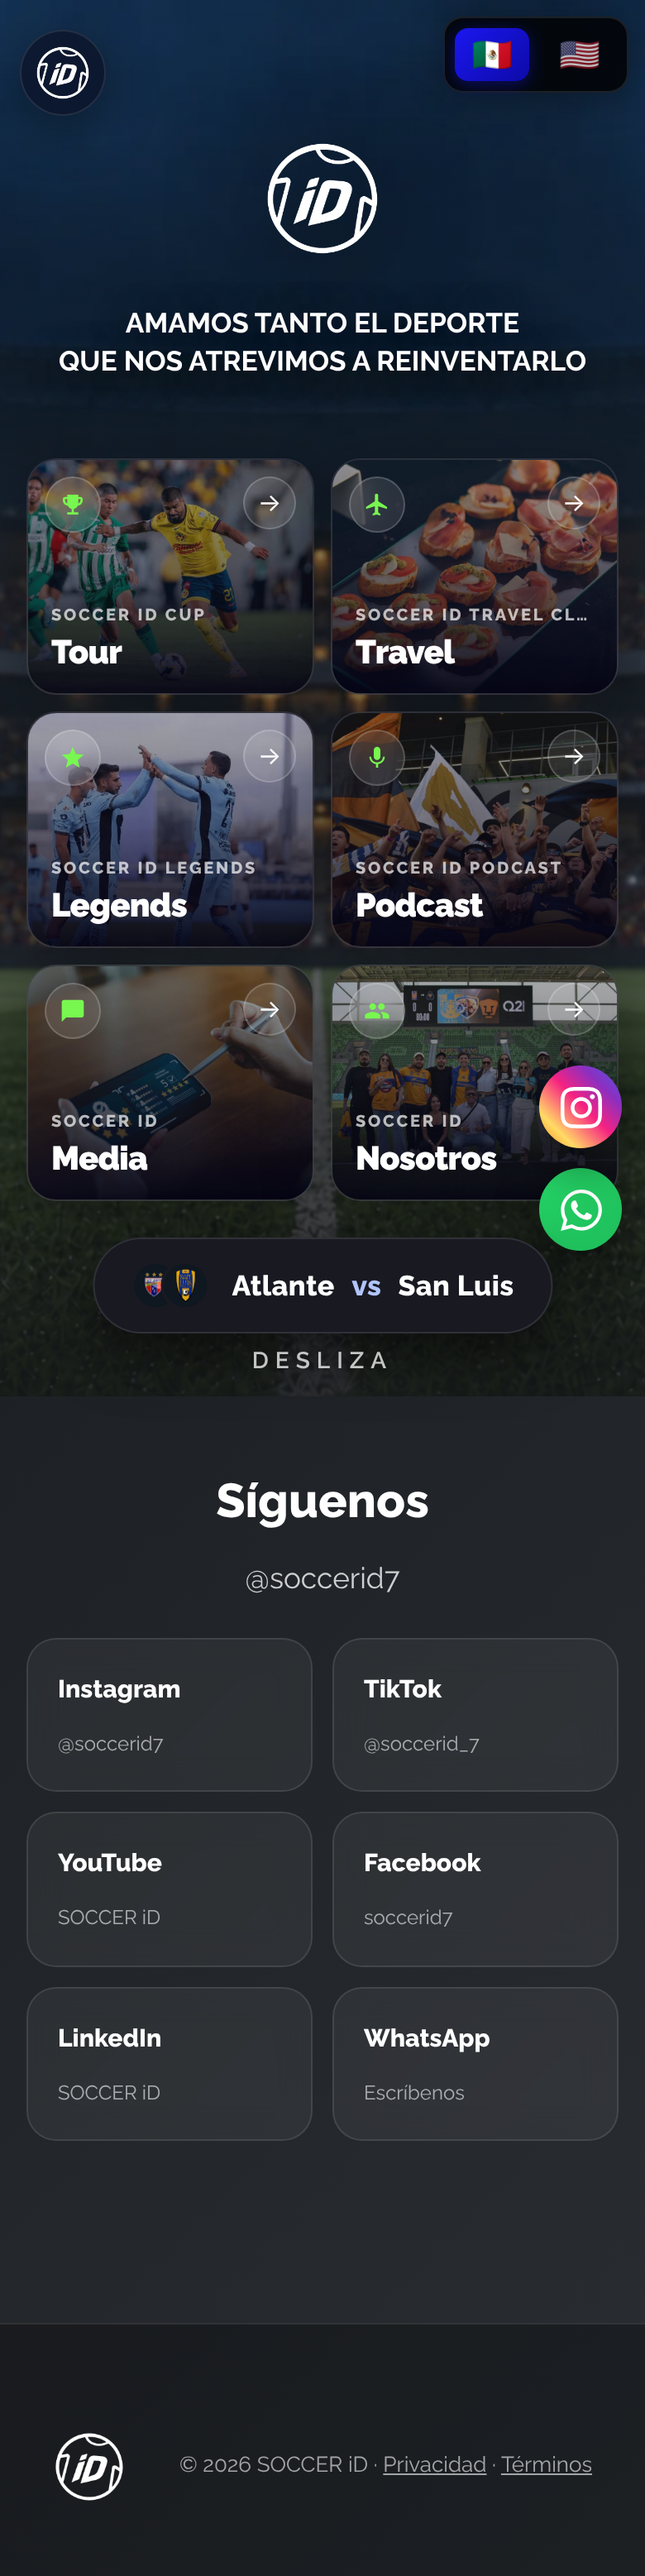
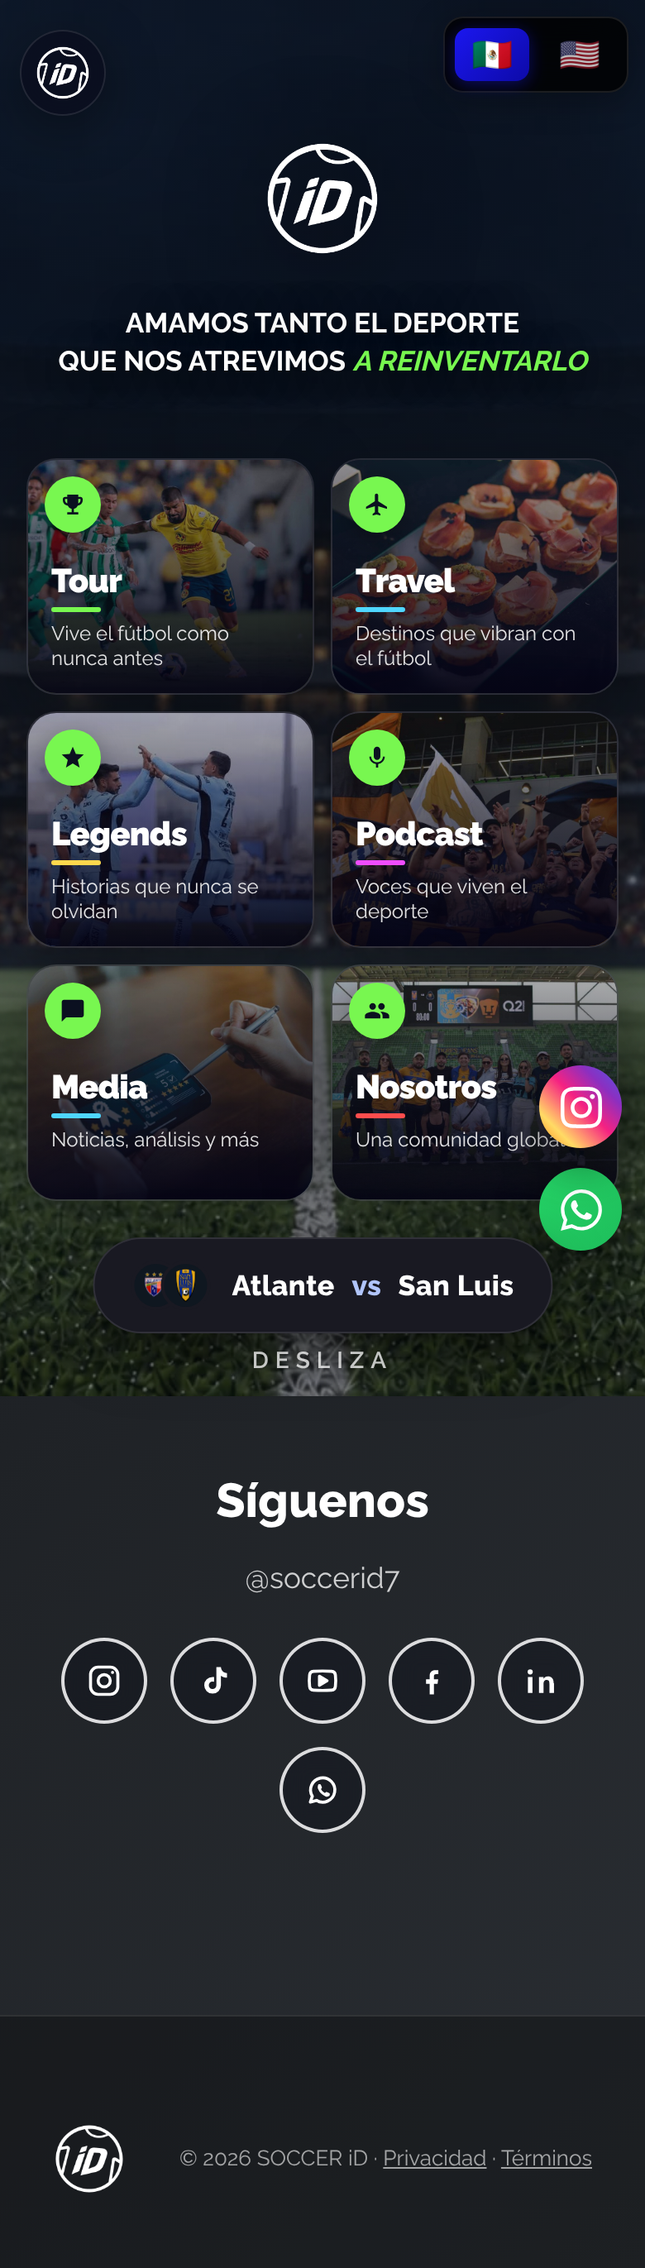
Inicio: cards y fondo como el mockup
Las puertas pierden el texto de arriba y la flecha; quedan el ícono en
círculo verde, el nombre, una barra de color por sección y un lema corto.
El lema reserva siempre dos líneas para que los seis títulos queden a la
misma altura. «A reinventarlo» va en verde itálica (también en el JSON de
traducciones, porque main.js reescribe el lema desde ahí). Las redes son
seis círculos con ícono centrados bajo las puertas; la píldora del
próximo partido se recorre a la izquierda en escritorio para dejarles
el centro. El velo del fondo se aclara para que se vea el estadio entero
y el pasto, en frío.

Claude-Session: https://claude.ai/code/session_01TBS5J98YBvjYTTdc9XtUtE

diff --git a/assets/css/inicio.css b/assets/css/inicio.css
@@ -66,14 +66,16 @@
    primera pantalla ya lo tiene todo: no hay que bajar para elegir. */
 .hero-logo-text img { filter: drop-shadow(0 10px 30px rgba(0,0,0,0.5)); }
 .hero-section { height: auto; min-height: 100vh; align-items: flex-start; padding-top: clamp(80px, 11vh, 120px); }
-/* El fondo nuevo (fondo-estadio) es más luminoso que el anterior, así que el
-   velo original lo apagaba: se aclara arriba (el isotipo y el lema siguen
-   legibles con su sombra) y se mantiene oscuro abajo, donde van las puertas. */
-.hero-video-container::after { background: linear-gradient(180deg, rgba(22,24,27,0.18) 0%, rgba(22,24,27,0.38) 45%, rgba(22,24,27,0.88) 100%); }
+/* El fondo del mockup: el estadio se ve entero, en frío y apagado, con el
+   pasto y la línea central a la vista abajo. Un velo azul marino parejo,
+   apenas más denso arriba, y nada de degradado negro al pie. */
+.hero-video-container::after { background: linear-gradient(180deg, rgba(8,12,24,0.62) 0%, rgba(8,12,24,0.45) 40%, rgba(8,12,24,0.30) 100%); }
+.hero-image { filter: saturate(0.72) brightness(0.82); }
 .hero-logo-text img { width: 84px; height: 84px; }
 /* El tamaño del lema en celular ya está calibrado en main.css (dos líneas
    exactas); sólo se toca en escritorio. */
-@media (min-width: 1025px) { .hero-tagline { font-size: 1.4rem; margin-bottom: 0; } }
+@media (min-width: 1025px) { .hero-tagline { font-size: 1.6rem; margin-bottom: 0; } }
+.hero-section .hero-tagline em { font-style: italic; color: var(--brand-lime); }
 
 /* ─── Las seis puertas ────────────────────────────────────────────── */
 /* Las puertas terminan 130 px antes del borde inferior de la pantalla: esa
@@ -94,51 +96,43 @@
 @keyframes puertaEntra { to { opacity: 1; transform: none; } }
 .puerta::before { content: ''; position: absolute; inset: 0; z-index: -2; background: var(--foto) center / cover no-repeat; opacity: .5; transform: scale(1.06); transition: opacity .5s, transform .9s cubic-bezier(.2,.8,.2,1); }
 .puerta--tour::before { background-position: center 12%; }
-.puerta::after { content: ''; position: absolute; inset: 0; z-index: -1; background: linear-gradient(to top, rgba(5,4,21,0.92) 0%, rgba(5,4,21,0.35) 55%, rgba(5,4,21,0.1) 100%); }
+.puerta::after { content: ''; position: absolute; inset: 0; z-index: -1; background: linear-gradient(to top, rgba(5,4,21,0.94) 0%, rgba(5,4,21,0.55) 45%, rgba(5,4,21,0.08) 100%); }
 .puerta:hover { flex: 2.4; border-color: rgba(var(--brand-blue-rgb), 0.7); box-shadow: 0 16px 50px rgba(var(--brand-blue-rgb), 0.25); }
 .puerta:hover::before { opacity: 1; transform: none; }
 .puerta__icono {
   position: absolute; top: 14px; left: 14px; z-index: 2;
   width: 38px; height: 38px; border-radius: 50%; display: flex; align-items: center; justify-content: center;
-  background: rgba(255,255,255,0.1); border: 1px solid rgba(255,255,255,0.18); color: var(--brand-lime);
-  backdrop-filter: blur(8px); -webkit-backdrop-filter: blur(8px);
+  background: var(--brand-lime); color: #0b1020; box-shadow: 0 4px 16px rgba(0,0,0,0.35);
 }
 .puerta__icono svg { width: 18px; height: 18px; }
-.puerta__ir {
-  position: absolute; top: 14px; right: 14px; z-index: 2;
-  width: 38px; height: 38px; border-radius: 50%; display: flex; align-items: center; justify-content: center;
-  background: rgba(255,255,255,0.1); border: 1px solid rgba(255,255,255,0.18); font-size: 17px;
-  transition: background .25s, transform .35s cubic-bezier(.2,.8,.2,1);
-}
-.puerta:hover .puerta__ir { background: var(--brand-blue); transform: rotate(-45deg); }
-.puerta__cuerpo { position: absolute; left: 20px; right: 20px; bottom: 20px; z-index: 2; display: flex; flex-direction: column; gap: 4px; }
-.puerta__sub { font-size: 11px; font-weight: 800; letter-spacing: .14em; text-transform: uppercase; color: rgba(255,255,255,0.7); white-space: nowrap; overflow: hidden; text-overflow: ellipsis; }
+.puerta__cuerpo { position: absolute; left: 20px; right: 20px; bottom: 22px; z-index: 2; display: flex; flex-direction: column; gap: 0; }
 .puerta__nombre { font-size: clamp(1.3rem, 1.8vw, 1.8rem); font-weight: 900; letter-spacing: -.02em; line-height: 1.05; white-space: nowrap; }
-.puerta__linea { font-size: 13px; color: rgba(255,255,255,0.78); max-width: 320px; max-height: 0; opacity: 0; overflow: hidden; transition: max-height .45s, opacity .35s .1s; }
-.puerta:hover .puerta__linea { max-height: 60px; opacity: 1; }
+.puerta__barra { display: block; width: 40px; height: 4px; border-radius: 2px; background: var(--barra, var(--brand-lime)); margin: 8px 0 10px; }
+/* Dos líneas reservadas siempre, para que los seis títulos queden a la
+   misma altura aunque el lema sea de una sola línea. */
+.puerta__linea { font-size: 14px; line-height: 1.3; min-height: 2.6em; color: rgba(255,255,255,0.88); max-width: 300px; }
 
 /* ─── Redes ───────────────────────────────────────────────────────── */
-/* En escritorio la fila de redes cierra la primera pantalla, justo bajo las
-   puertas; el título «Síguenos» sólo hace falta en celular. */
-.redes-v2 { position: relative; z-index: 4; height: 130px; padding: 38px 40px 0; }
+/* En escritorio las redes son seis círculos centrados bajo las puertas, como
+   en el mockup. Para dejarles el centro, la píldora del próximo partido (del
+   layout, fija) se recorre a la izquierda sólo en esta página. */
+.redes-v2 { position: relative; z-index: 4; height: 130px; padding: 34px 40px 0; }
 .redes-v2 .section-header { display: none; }
-/* Tres chips a cada lado de la píldora del partido, que ocupa el centro
-   (columna 4, vacía a propósito). Todos en la misma fila. */
-.redes-v2__grid { display: grid; grid-template-columns: auto auto auto minmax(380px, 1fr) auto auto auto; justify-content: space-between; align-items: center; column-gap: 8px; max-width: 1180px; margin: 0 auto; } /* 1180 y no 1320: el dock de Instagram y WhatsApp vive en el borde derecho */
-.redes-v2__chip { grid-row: 1; }
-.redes-v2__chip:nth-child(1) { grid-column: 1; } .redes-v2__chip:nth-child(2) { grid-column: 2; } .redes-v2__chip:nth-child(3) { grid-column: 3; }
-.redes-v2__chip:nth-child(4) { grid-column: 5; } .redes-v2__chip:nth-child(5) { grid-column: 6; } .redes-v2__chip:nth-child(6) { grid-column: 7; }
+.redes-v2__grid { display: flex; justify-content: center; gap: 22px; }
 .redes-v2__chip {
-  display: inline-flex; align-items: baseline; gap: 8px; padding: 9px 14px; border-radius: 999px; text-decoration: none; color: #fff; white-space: nowrap;
-  background: rgba(255,255,255,0.05); border: 1px solid rgba(255,255,255,0.1);
-  backdrop-filter: blur(10px); -webkit-backdrop-filter: blur(10px);
-  transition: transform .2s, border-color .2s, background .2s;
+  width: 52px; height: 52px; border-radius: 50%; display: flex; align-items: center; justify-content: center;
+  color: #fff; text-decoration: none; border: 2px solid rgba(255,255,255,0.85); background: rgba(8,12,24,0.35);
+  backdrop-filter: blur(8px); -webkit-backdrop-filter: blur(8px);
+  transition: transform .2s, background .2s, border-color .2s, color .2s;
 }
-.redes-v2__chip:hover { transform: translateY(-3px); border-color: rgba(var(--brand-blue-rgb), 0.7); background: rgba(var(--brand-blue-rgb), 0.18); }
-.redes-v2__chip span { font-weight: 800; font-size: 13px; }
-.redes-v2__chip small { font-size: 12px; color: rgba(255,255,255,0.6); }
+.redes-v2__chip svg { width: 22px; height: 22px; }
+.redes-v2__chip span, .redes-v2__chip small { display: none; }
+.redes-v2__chip:hover { transform: translateY(-3px); background: var(--brand-lime); border-color: var(--brand-lime); color: #0b1020; }
 .footer-content { display: flex; align-items: center; justify-content: space-between; gap: 16px; flex-wrap: wrap; max-width: 1200px; margin: 0 auto; padding: 24px 20px; color: rgba(255,255,255,0.6); font-size: 13px; }
 .footer-content a { color: inherit; }
+/* Las reglas de la píldora viven en un <style> del layout que llega después
+   de esta hoja; por eso van con body delante (más específicas). */
+@media (min-width: 1025px) { body .mn-mini { left: 40px; transform: translateX(0) translateY(220%); } body .mn-mini.active { transform: translateX(0) translateY(0); } }
 
 /* ─── Menú lateral (dot-nav original) ─────────────────────────────── */
 /* En escritorio las puertas ya son el menú. En celular es EL menú, así
@@ -159,20 +153,15 @@
   .puerta { flex: none; border-radius: 18px; }
   .puerta:hover { flex: none; }
   .puerta::before { opacity: .7; transform: none; }
-  .puerta__linea { display: none; }
   .puerta__nombre { font-size: 1.25rem; }
-  .puerta__sub { font-size: 10px; }
-  .puerta__cuerpo { left: 14px; right: 14px; bottom: 14px; }
+  .puerta__linea { font-size: 12px; }
+  .puerta__barra { width: 30px; height: 3px; margin: 5px 0 6px; }
+  .puerta__cuerpo { left: 14px; right: 14px; bottom: 12px; }
   .puerta__icono { width: 34px; height: 34px; top: 10px; left: 10px; }
   .puerta__icono svg { width: 16px; height: 16px; }
-  .puerta__ir { width: 32px; height: 32px; top: 10px; right: 10px; font-size: 15px; }
   .redes-v2 { height: auto; margin-top: 118px; padding: 40px 16px 110px; } /* 118: la banda de la píldora del partido */
   .redes-v2 .section-header { display: block; margin-bottom: 22px; }
-  .redes-v2__grid { display: grid; grid-template-columns: repeat(3, 1fr); gap: 12px; }
-  .redes-v2__chip { display: flex; flex-direction: column; gap: 12px; padding: 18px; border-radius: 18px; white-space: normal; }
-  .redes-v2__chip:nth-child(n) { grid-column: auto; grid-row: auto; }
-  .redes-v2__chip span { font-size: 15px; }
-  .redes-v2__chip small { display: block; }
+  .redes-v2__grid { flex-wrap: wrap; gap: 14px; }
   /* El lateral se comporta como en la original: aparece al bajar. */
   .dot-nav--inicio { display: flex; }
 }
@@ -181,7 +170,6 @@
      el lateral de la derecha. */
   .pildora { left: 12px; transform: none; padding: 5px; }
   .pildora__nav, .pildora__menu { display: none; }
-  .redes-v2__grid { grid-template-columns: repeat(2, 1fr); }
 }
 @media (prefers-reduced-motion: reduce) {
   .puerta { animation: none; opacity: 1; transform: none; }

diff --git a/index.js b/index.js
@@ -1614,17 +1614,23 @@ function seccionesV2(lang) {
   const es = lang !== 'en';
   return [
     { slug: 'tour', num: '01', marca: true, color: 'tour', nombre: 'Tour', submarca: 'SOCCER iD CUP',
-      linea: es ? "El Tour '27 y las ediciones que ya se jugaron." : "Tour '27 and the editions already played." },
+      linea: es ? "El Tour '27 y las ediciones que ya se jugaron." : "Tour '27 and the editions already played.",
+      lema: es ? 'Vive el fútbol como nunca antes' : 'Live football like never before', barra: '#78F750' },
     { slug: 'travel', num: '02', marca: true, color: 'travel', nombre: 'Travel', submarca: 'SOCCER iD Travel Club',
-      linea: es ? 'Partidos, palcos y viajes a cualquier estadio.' : 'Matches, suites and trips to any stadium.' },
+      linea: es ? 'Partidos, palcos y viajes a cualquier estadio.' : 'Matches, suites and trips to any stadium.',
+      lema: es ? 'Destinos que vibran con el fútbol' : 'Destinations that live football', barra: '#4FD6FF' },
     { slug: 'legends', num: '03', marca: true, color: 'legends', nombre: 'Legends', submarca: 'SOCCER iD Legends',
-      linea: es ? 'Las figuras que hicieron historia, de cerca.' : 'The players who made history, up close.' },
+      linea: es ? 'Las figuras que hicieron historia, de cerca.' : 'The players who made history, up close.',
+      lema: es ? 'Historias que nunca se olvidan' : 'Stories never forgotten', barra: '#FFD84D' },
     { slug: 'podcast', num: '04', marca: true, color: 'podcast', nombre: 'Podcast', submarca: 'SOCCER iD Podcast',
-      linea: es ? 'Conversaciones de fútbol, sin prisa.' : 'Football conversations, no rush.' },
+      linea: es ? 'Conversaciones de fútbol, sin prisa.' : 'Football conversations, no rush.',
+      lema: es ? 'Voces que viven el deporte' : 'Voices that live the game', barra: '#F04DFF' },
     { slug: 'opiniones', num: '05', marca: false, color: 'apoyo', nombre: es ? 'Opiniones y media' : 'Reviews & media', corto: 'Media',
-      linea: es ? 'Lo que dicen quienes vivieron la experiencia, y la prensa.' : 'What people and the press say.' },
+      linea: es ? 'Lo que dicen quienes vivieron la experiencia, y la prensa.' : 'What people and the press say.',
+      lema: es ? 'Noticias, análisis y más' : 'News, analysis and more', barra: '#4FD6FF' },
     { slug: 'nosotros', num: '06', marca: false, color: 'apoyo', nombre: es ? 'Quiénes somos' : 'About us', corto: es ? 'Nosotros' : 'About',
-      linea: es ? 'La historia y el equipo detrás de SOCCER iD.' : 'The story and the team behind SOCCER iD.' }
+      linea: es ? 'La historia y el equipo detrás de SOCCER iD.' : 'The story and the team behind SOCCER iD.',
+      lema: es ? 'Una comunidad global' : 'A global community', barra: '#FF4D4D' }
   ].map(sx => Object.assign(sx, { url: `/${lang}/${sx.slug}`, foto: FOTOS_SECCION[sx.slug] }));
 }
 
